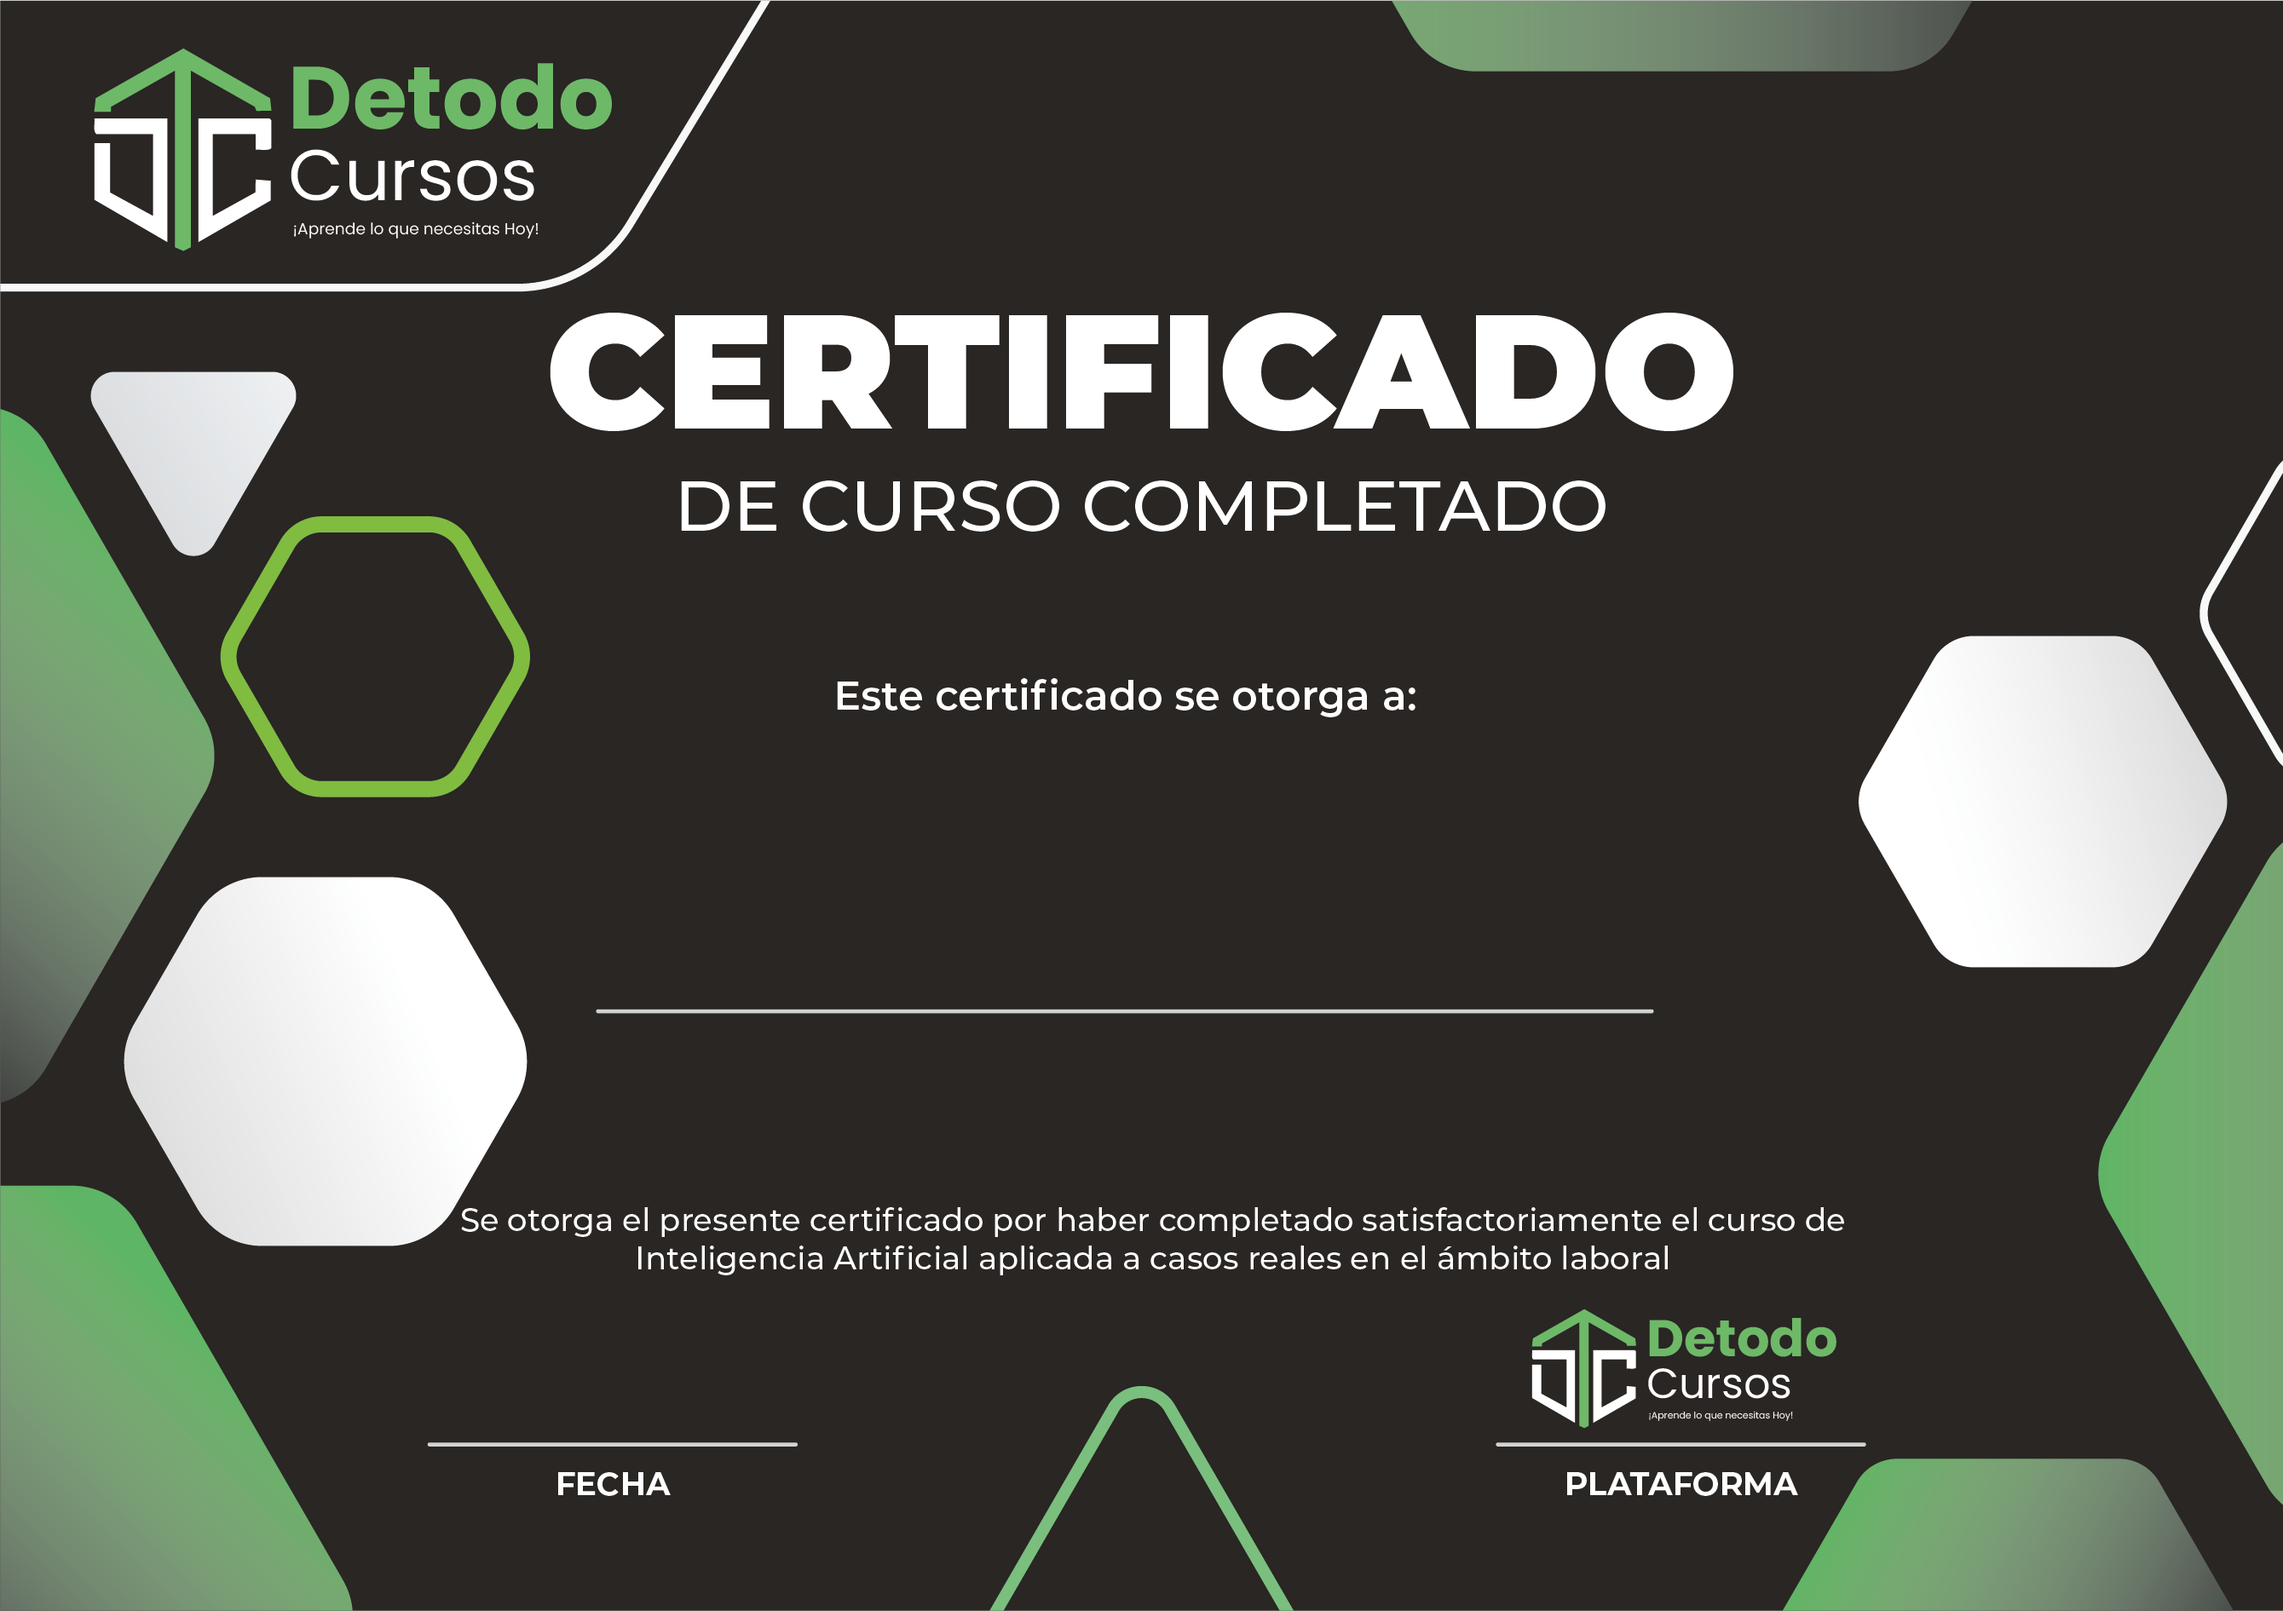
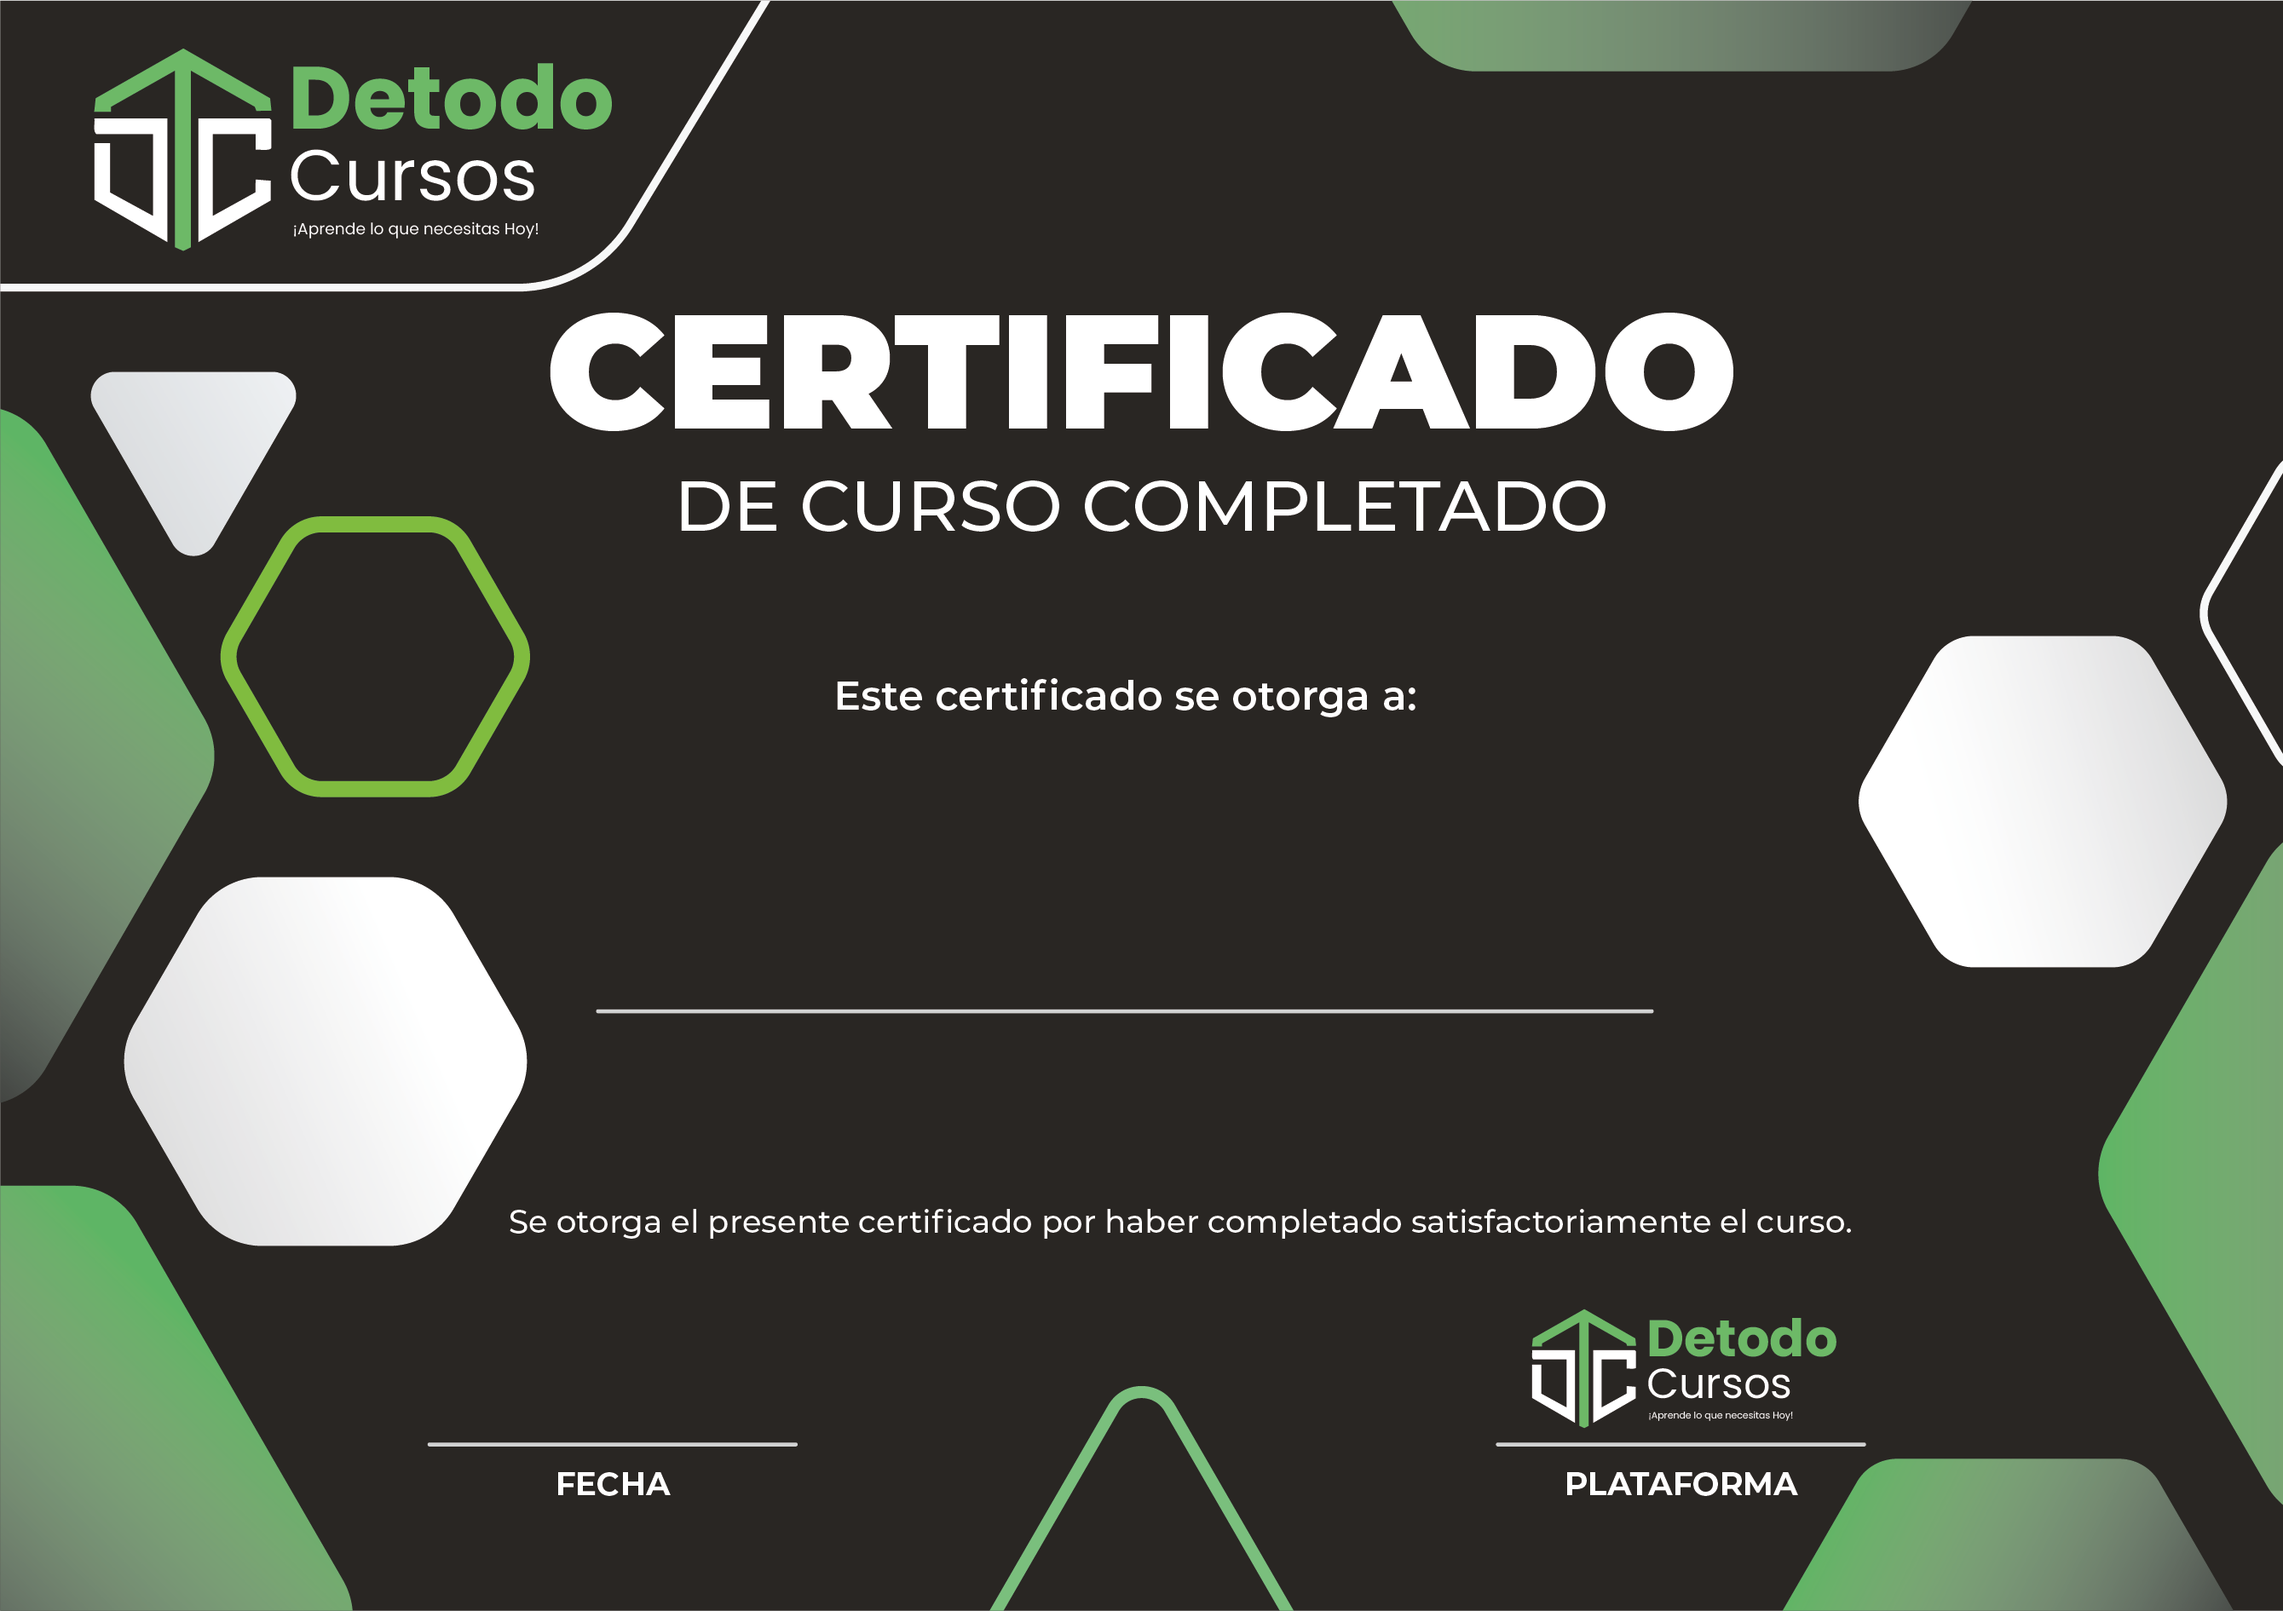
fix: modal overlay no bloquea header y dropdown

Changed region(s): [[0.2169, 0.7488, 0.8055, 0.8112]]

diff --git a/src/pages/Admin.css b/src/pages/Admin.css
@@ -590,11 +590,13 @@ td {
   display: flex;
   align-items: center;
   justify-content: center;
-  z-index: 1000;
+  z-index: 5000; /* 🔧 FIX CRÍTICO: ya no bloquea el header */
   padding: 20px;
 }
 
 .modal-content {
+  position: relative; /* 🔧 FIX: asegura clicks correctos */
+  z-index: 5001;
   background: var(--fondo-tarjeta);
   border-radius: 12px;
   padding: 30px;
@@ -606,6 +608,8 @@ td {
 }
 
 .modal-content-large {
+  position: relative; /* 🔧 FIX */
+  z-index: 5001;
   background: var(--fondo-tarjeta);
   border-radius: 12px;
   padding: 30px;
@@ -684,6 +688,7 @@ td {
   transform: translateY(-2px);
   box-shadow: 0 5px 15px rgba(0, 230, 118, 0.3);
 }
+
 
 /* ========================================
    🆕 DETALLE DE VENTA
